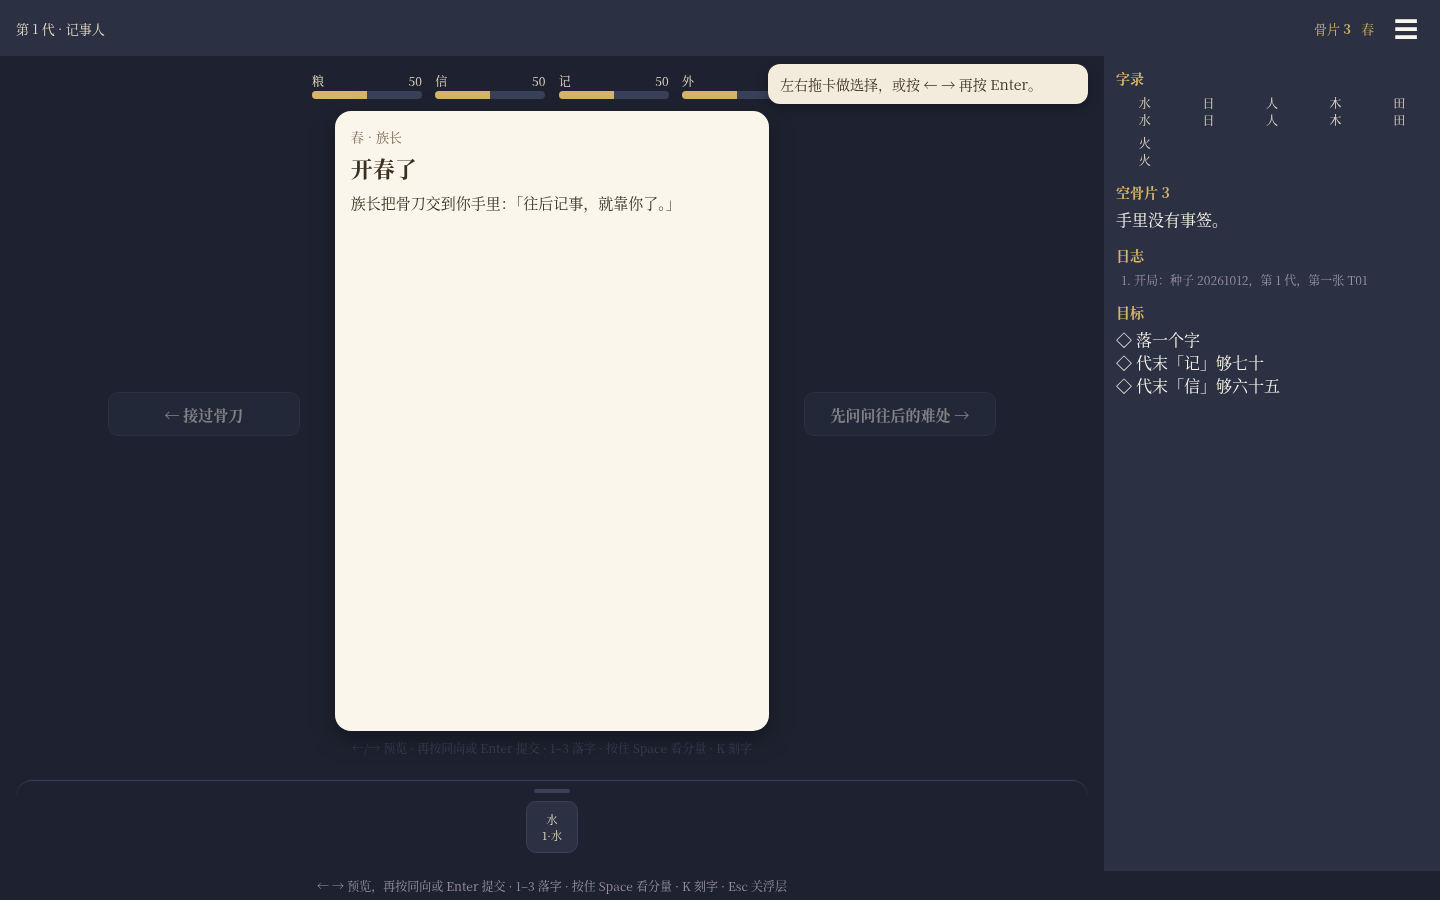
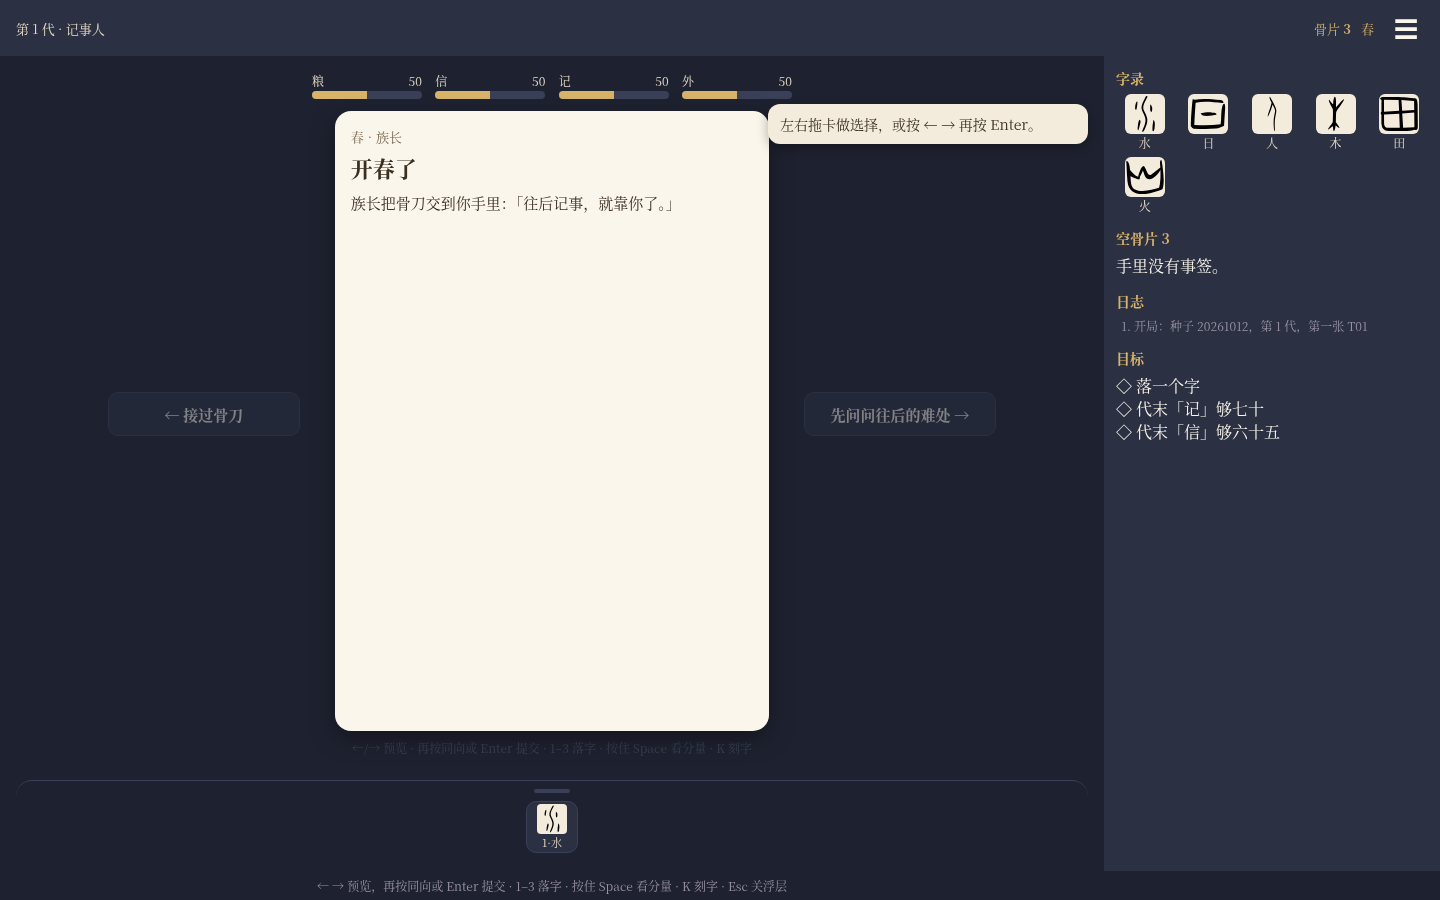
redesign fix: desktop tutorial bubble + collapsed sidebar width
- Match gf3 desktop: drop the coach bubble to the card top (#stage+48) so it
  no longer sits on the dim row, and make it pointer-events:none (pure hint)
  so it never steals the bone-corner click.
- BREAKPOINTS says a collapsed sidebar leaves just the 44px tab; the desktop
  and tablet-landscape rules were pinning it to 336px. Force width:0 when
  collapsed.
- Add the B3 e2e assertion (bubble clears the dim row and is >=16px from the
  sidebar at 1440).

Changed region(s): [[0.5312, 0.0622, 1.0, 0.4978], [0.875, 0.3422, 0.9375, 0.3733], [0.375, 0.8711, 0.4062, 0.9333]]

diff --git a/web/style.css b/web/style.css
@@ -112,7 +112,7 @@ body[data-view="mobile"] #coachcol,body[data-view="tablet-portrait"] #coachcol{d
 body[data-view="mobile"] #coach,body[data-view="tablet-portrait"] #coach{max-width:none;}
 #coach{
   max-width:320px;background:var(--paper-100);color:var(--ink);border-radius:12px;padding:10px 12px;
-  font-size:14px;line-height:20px;box-shadow:0 4px 12px rgba(0,0,0,.3);
+  font-size:14px;line-height:20px;box-shadow:0 4px 12px rgba(0,0,0,.3);pointer-events:none;
 }
 #coach .coach-keys{display:block;margin-top:4px;font-size:12px;color:#7a6a4e;}
 
@@ -269,12 +269,13 @@ body[data-view="desktop"] #stage{grid-column:1/2;min-width:0;}
 body[data-view="desktop"] #wordbox-bar{grid-column:1/2;border-radius:16px;margin:8px 16px;min-height:0;min-width:0;}
 body[data-view="desktop"] #keys{grid-column:1/2;display:block;min-width:0;}
 body[data-view="desktop"] #sidebar{grid-column:2/3;grid-row:2/4;display:block;width:336px;}
+body[data-view="desktop"] #sidebar.collapsed,body[data-view="tablet-landscape"] #sidebar.collapsed{width:0;}
 body[data-view="desktop"] #dims-desktop{display:flex;width:480px;max-width:100%;justify-content:space-between;margin-bottom:4px;}
 body[data-view="desktop"] #dims-desktop .dim{flex:0 0 auto;width:110px;}
 body[data-view="desktop"] #gesture-hint{color:var(--night-line);}
 body[data-view="desktop"] #cardwrap{height:clamp(468px,calc(100dvh - 280px),640px);width:auto;}
 body[data-view="desktop"] .card{height:100%;width:auto;aspect-ratio:328/468;}
-body[data-view="desktop"] #coachcol{display:block;position:absolute;right:16px;top:8px;width:320px;z-index:30;}
+body[data-view="desktop"] #coachcol{display:block;position:absolute;right:16px;top:48px;width:320px;z-index:30;}
 body[data-view="desktop"].side-collapsed #coachcol{right:60px;}
 body[data-view="desktop"] #wordbox{min-height:0;}
 body[data-view="desktop"] .optbtn{width:192px;flex:0 0 auto;}

diff --git a/REDESIGN_PROGRESS.md b/REDESIGN_PROGRESS.md
@@ -25,4 +25,5 @@
 - 7/8 收尾核对完成（ae5e53e）：48 个卡面图资产并入发布树 + SW 预缓存；credits seal 行带 SOURCES.csv 的 credit 署名；shui 3 字形与设计稿逐字节一致。
 - 10 单测完成（本步）：新增 tests/card_art.test.mjs（只发 C01–C10、先人无图、gf4-休 不上线、资产逐字节一致、无杂文件）；修 index.html 重复的 #goals-slip id。16 个单测全过。
 - 11 e2e 完成（本步）：`npm run e2e` = node:test + playwright 库（本项目只装了 playwright，无 @playwright/test）。helpers/env.mjs 干净树重建 dist + 起 serve_pages 模拟 Pages。27 个 e2e 全过：viewports（3 引擎 × 390/768/1024/1280/1440，菜单/存档/静音 D1/版权）、flow（3 引擎 1280：教学/卡面图 picture+webp/目标弹层不秒关/锁卡提示且不遮字匣/天亮了不穿透/先人无图/挑字 14 字池/多代）、手机横屏转竖屏提示、offline（3 引擎 SW 后断网）、redirects（serve_pages 308 + no-cache）、fps（chromium 4× 节流 60.0fps）。
+- 修：字形首屏不出图——重写把 loadGlyphs 的 onload 重绘限制成只在 pick/winter，导致 card 阶段字匣/字录停在文字兜底。恢复基线行为（每次字形加载都 render），e2e viewports 加断言锁死。
 - 下一步：12 干净树 build dist，13 release_shots_v2 截图，14 REDESIGN_REPORT.md + DONE。
